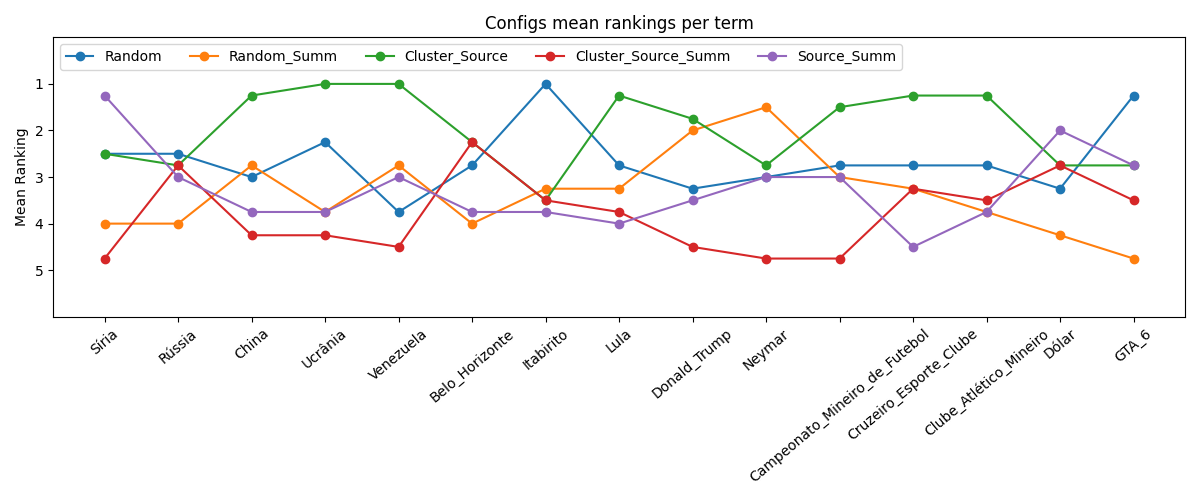
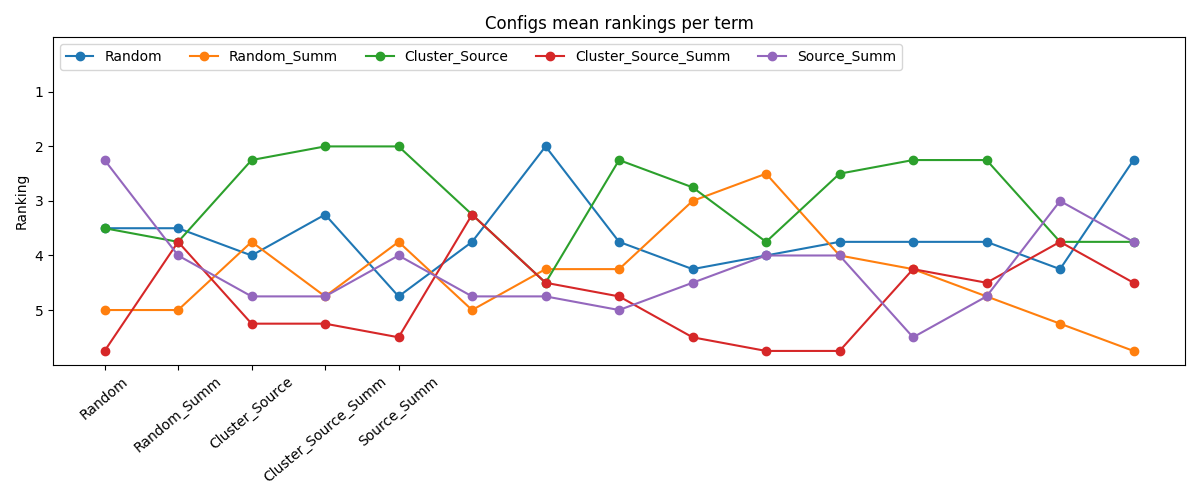
data: add two more plots

diff --git a/src/scripts/plot_results.py b/src/scripts/plot_results.py
@@ -44,20 +44,25 @@ def plot_each_person_results(data_dir: str, save_to_dir: str):
         plt.figure(figsize=(12, 5))
         df.T.plot(ax=plt.gca(), marker="o")
 
-        x_labels = df.columns.to_list()
-        plt.xticks(range(len(x_labels)), x_labels, rotation=40)
-        y_ticks = [0, 1, 2, 3, 4]
-        plt.yticks(y_ticks, [el + 1 for el in y_ticks])
-        plt.ylim((-1, len(y_ticks)))
-        plt.ylabel("Ranking")
-        plt.gca().invert_yaxis()
-
-        plt.legend(loc="upper left", ncol=len(plt.gca().lines))
-        plt.title(file.stem)
-        plt.tight_layout()
+        _define_plot_configs(
+            title=file.stem, df=df, xlabels=df.columns.to_list()
+        )
 
         plt.savefig(target_dir_path / f"{file.stem}.png")
         plt.close()
+
+
+def _define_plot_configs(title, df, xlabels):
+    plt.xticks(range(len(xlabels)), xlabels, rotation=40)
+    y_ticks = [0, 1, 2, 3, 4]
+    plt.yticks(y_ticks, [el + 1 for el in y_ticks])
+    plt.ylim((-1, len(y_ticks)))
+    plt.ylabel("Ranking")
+    plt.gca().invert_yaxis()
+
+    plt.legend(loc="upper left", ncol=len(plt.gca().lines))
+    plt.title(title)
+    plt.tight_layout()
 
 
 def get_configs_mean_rankings(data_dir: str) -> dict[dict[str, float]]:
@@ -96,21 +101,53 @@ def save_mean_rankings_plot(data_dir: str, target_plot_path: str):
     plt.figure(figsize=(12, 5))
     mean_rankings_df.plot(ax=plt.gca(), marker="o")
 
-    x_labels = mean_rankings_df.index.to_list()
-    plt.xticks(range(len(x_labels)), x_labels, rotation=40)
-
-    y_ticks = [1, 2, 3, 4, 5]
-    plt.yticks(y_ticks, [el for el in y_ticks])
-    plt.ylim((0, len(y_ticks) + 1))
-
-    plt.ylabel("Mean Ranking")
-    plt.gca().invert_yaxis()
-
-    plt.legend(loc="upper left", ncol=len(plt.gca().lines))
-    plt.title("Configs mean rankings per term")
-    plt.tight_layout()
+    _define_plot_configs(
+        title="Configs mean rankings per term",
+        df=mean_rankings_df,
+        xlabels=mean_rankings_df.columns.to_list(),
+    )
 
     plt.savefig(pathlib.Path(target_plot_path))
+    plt.close()
+
+
+def highlight_mean_performance(
+    data_dir: str, target_plot_path: str, highlight: list[str]
+):
+    data_dir_path = pathlib.Path(data_dir)
+
+    config_term_mean_rankings = get_configs_mean_rankings(data_dir_path)
+
+    mean_rankings_df = pd.DataFrame(config_term_mean_rankings)
+    mean_rankings_df = mean_rankings_df.loc[cols_ordering]
+
+    plt.figure(figsize=(12, 5))
+
+    xrange = list(range(len(mean_rankings_df.index.to_list())))
+    not_highlight_color = "lightgray"
+    for col in mean_rankings_df.columns:
+        if col in highlight:
+            continue
+
+        plt.plot(
+            xrange,
+            mean_rankings_df[col].values,
+            marker="o",
+            c=not_highlight_color,
+            label=col,
+        )
+
+    # So the highlighted columns are plotted last
+    for col in highlight:
+        plt.plot(xrange, mean_rankings_df[col].values, marker="o", label=col)
+
+    _define_plot_configs(
+        title="Configs mean rankings per term",
+        df=mean_rankings_df,
+        xlabels=mean_rankings_df.index.to_list(),
+    )
+
+    plt.savefig(target_plot_path)
     plt.close()
 
 
@@ -125,3 +162,29 @@ if __name__ == "__main__":
     mean_rankings_plot_path = data_dir / "assets/rankings/mean_rankings.png"
     print("[LOG] Plotting mean rankings to", mean_rankings_plot_path.resolve())
     save_mean_rankings_plot(rankings_data_dir, mean_rankings_plot_path)
+
+    highlist_mean_rankings_plot_path = (
+        data_dir / "assets/rankings/cluster_vs_summ_rankings.png"
+    )
+    print(
+        "[LOG] Plotting highlighted mean rankings to",
+        highlist_mean_rankings_plot_path.resolve(),
+    )
+    highlight_mean_performance(
+        rankings_data_dir,
+        highlist_mean_rankings_plot_path,
+        ["Cluster_Source", "Source_Summ"],
+    )
+
+    highlist_mean_rankings_plot_path = (
+        data_dir / "assets/rankings/cluster_source_summ.png"
+    )
+    print(
+        "[LOG] Plotting highlighted mean rankings to",
+        highlist_mean_rankings_plot_path.resolve(),
+    )
+    highlight_mean_performance(
+        rankings_data_dir,
+        highlist_mean_rankings_plot_path,
+        ["Cluster_Source_Summ"],
+    )
